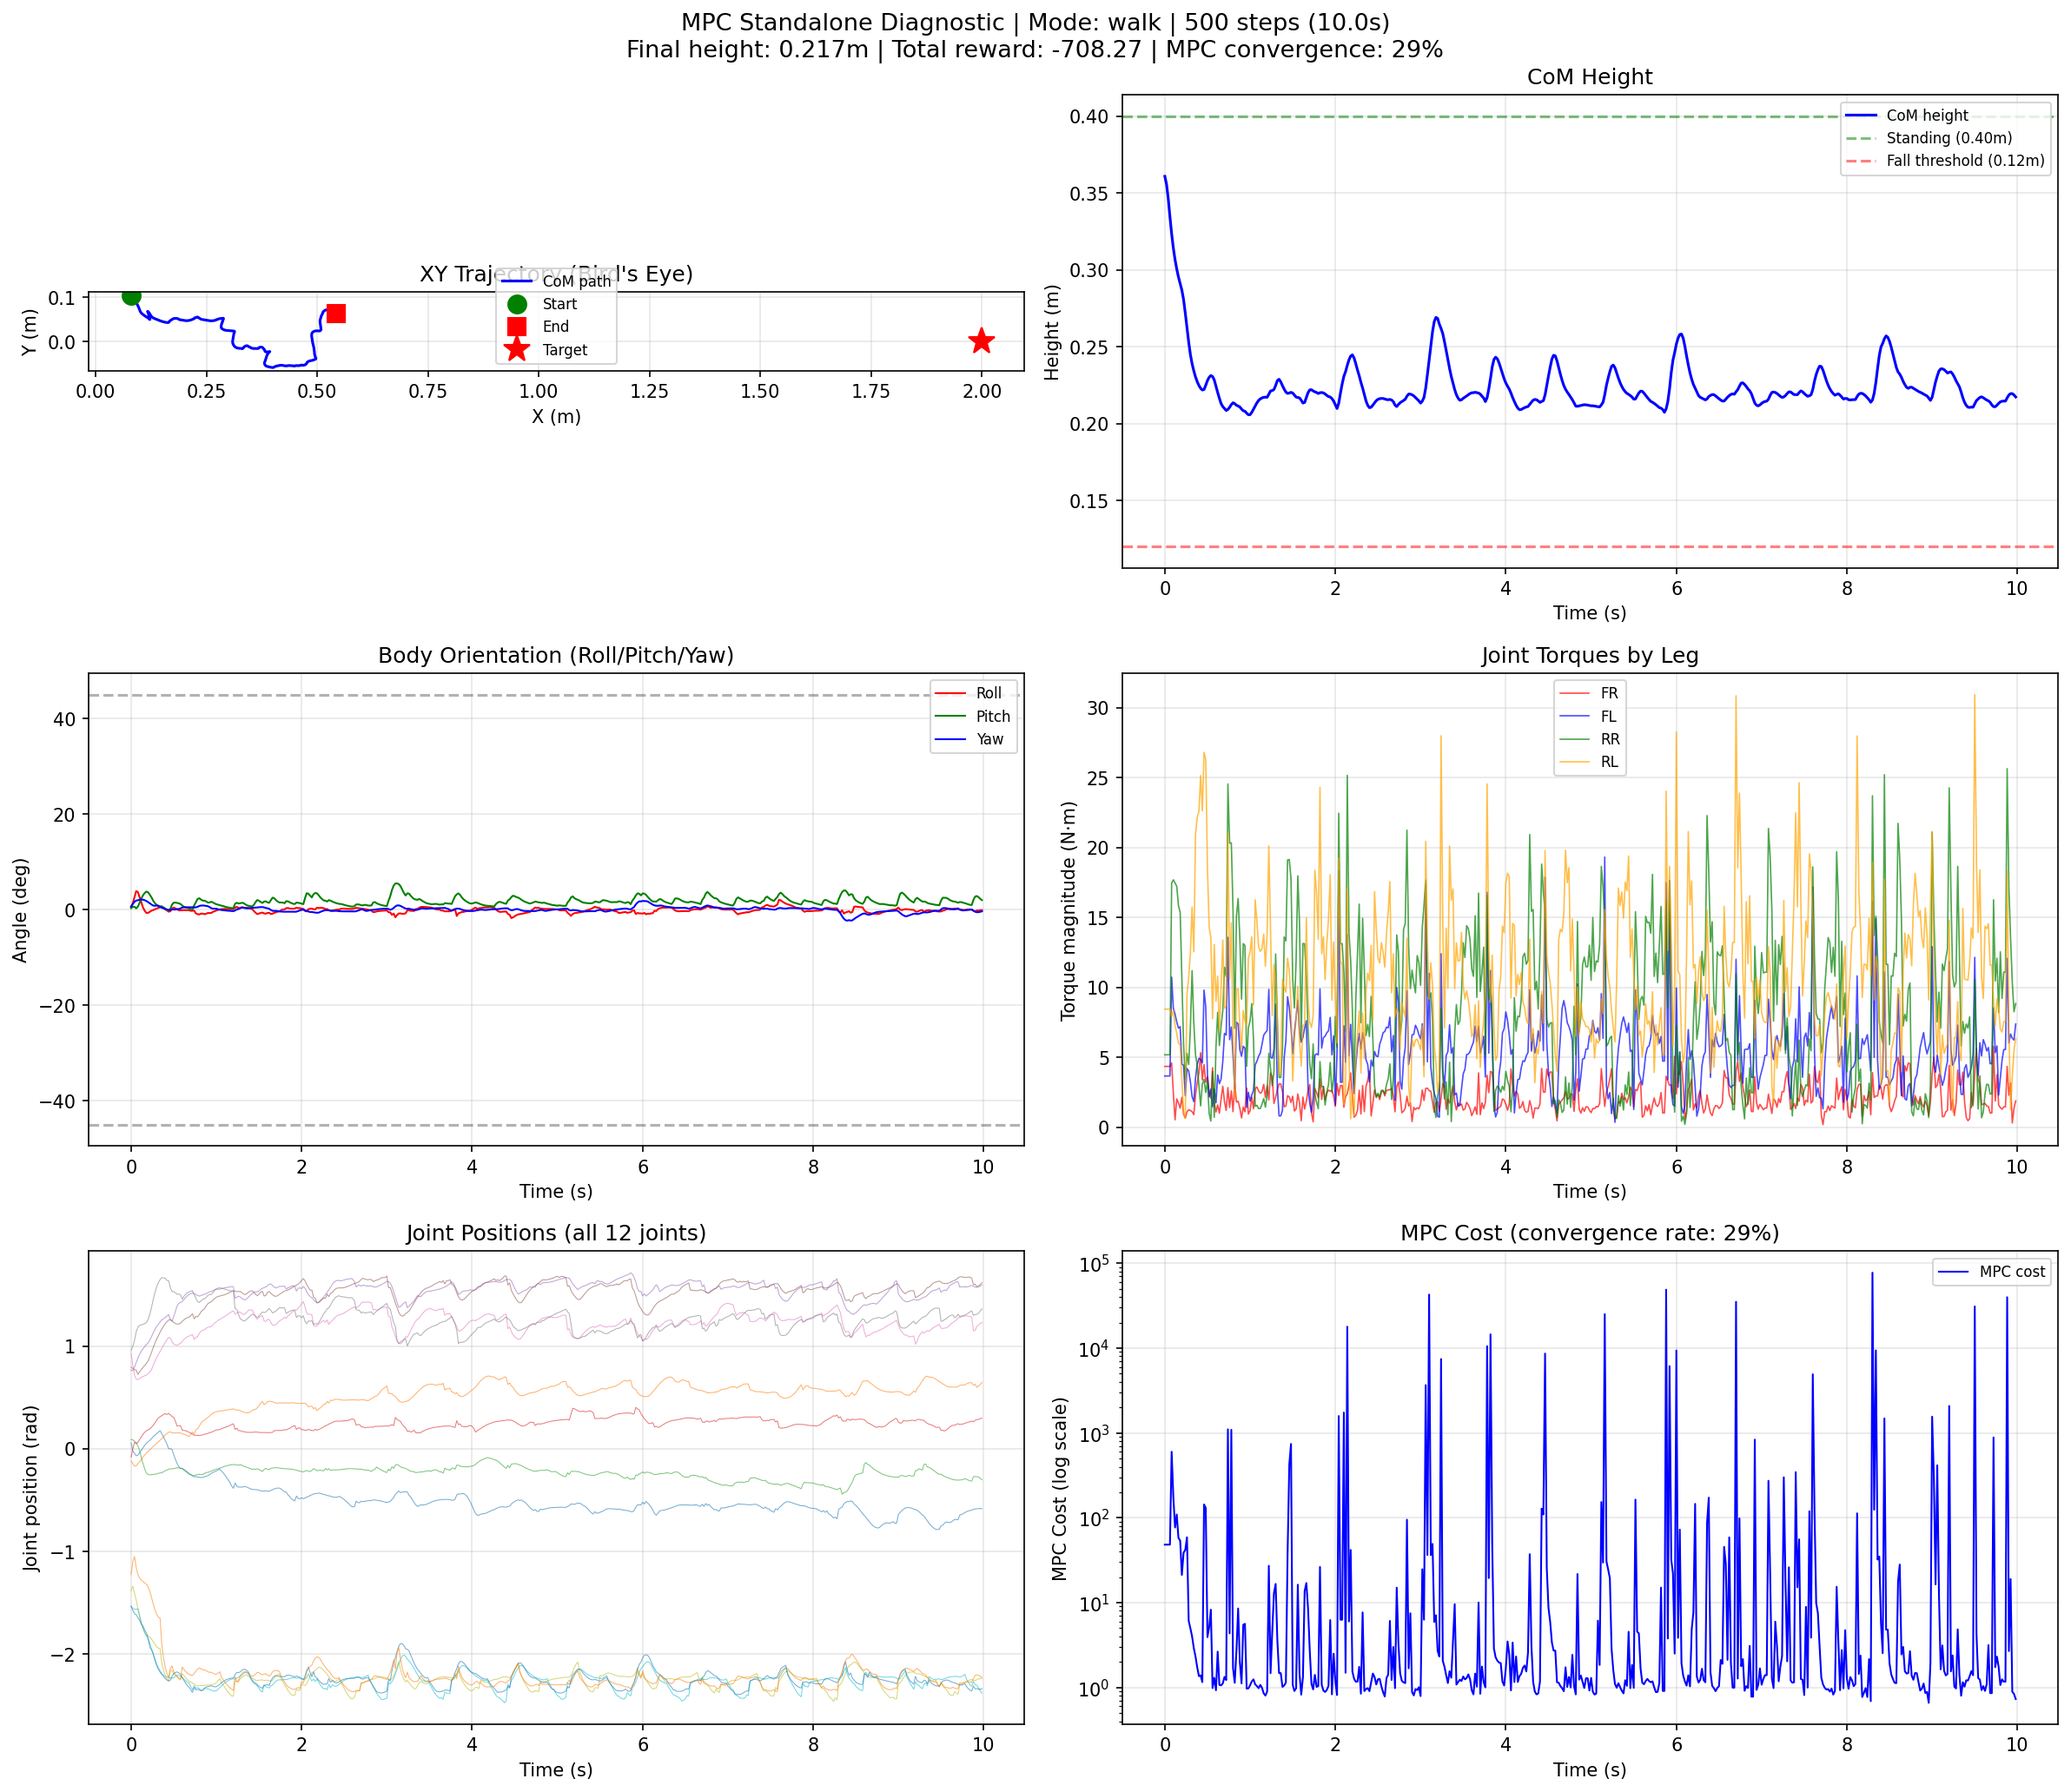
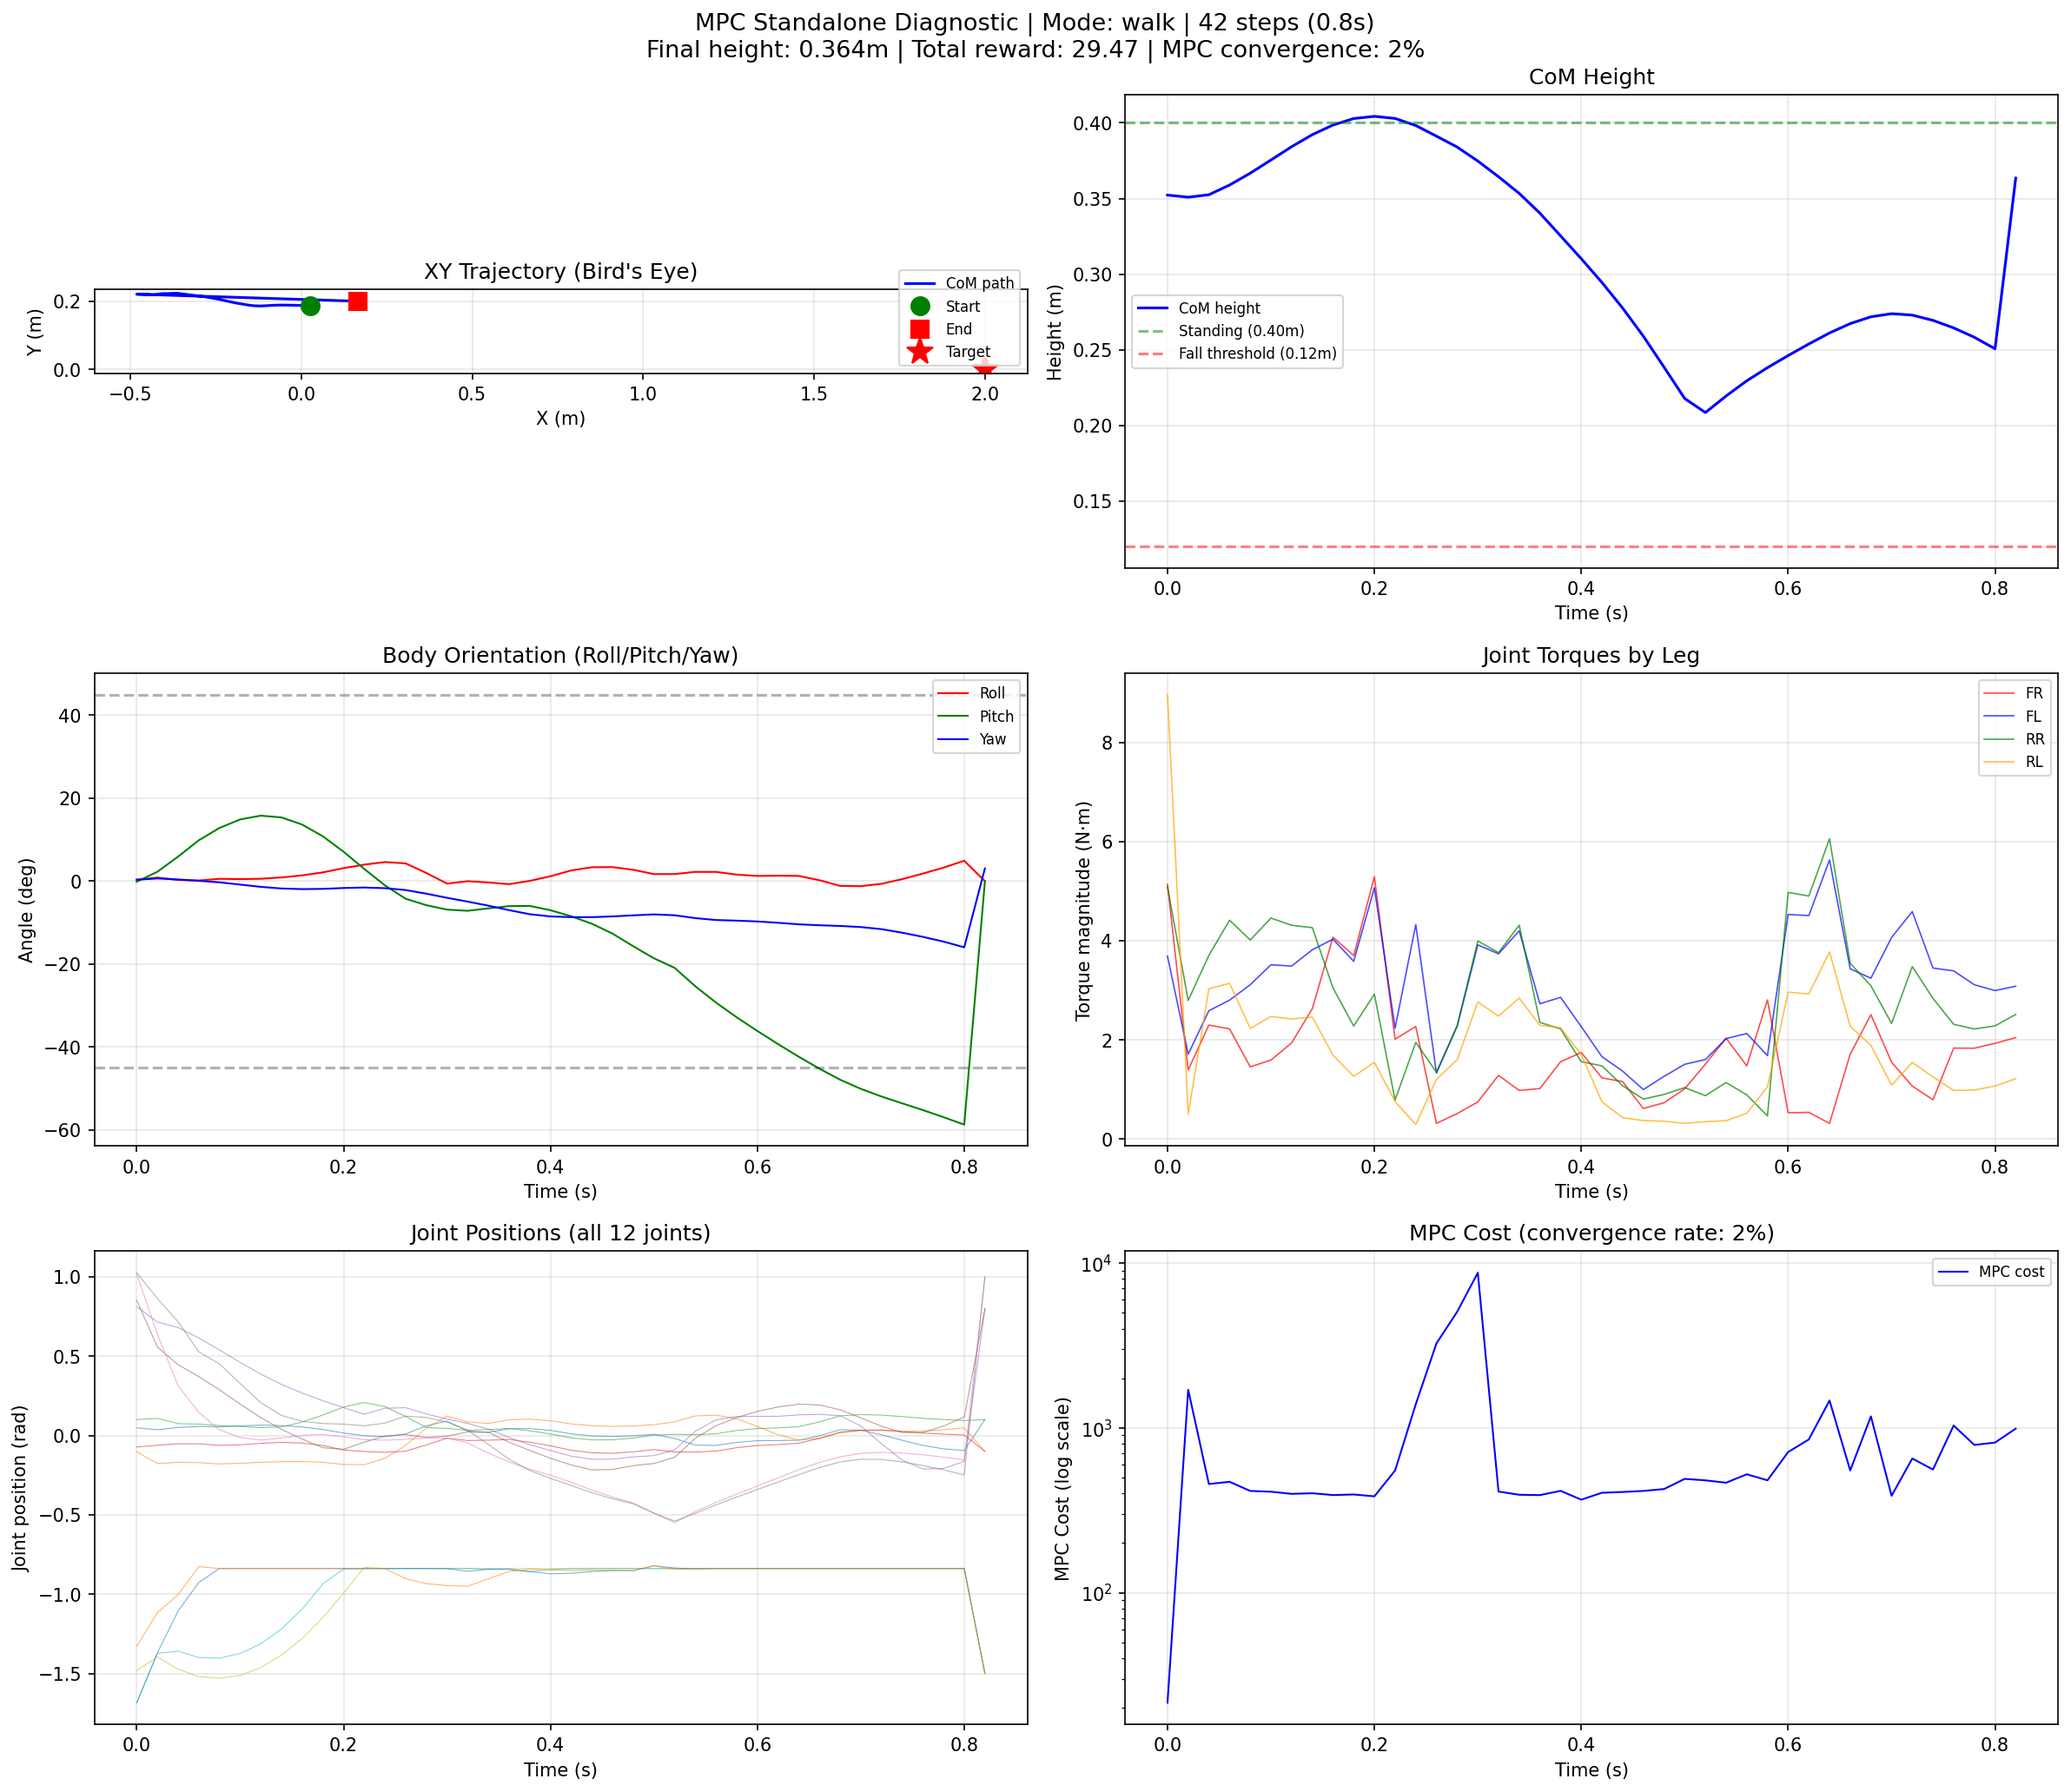
RL debug 314

diff --git a/source/RL_Bezier_MPC/RL_Bezier_MPC/envs/quadruped_mpc_env.py b/source/RL_Bezier_MPC/RL_Bezier_MPC/envs/quadruped_mpc_env.py
@@ -387,6 +387,22 @@ class QuadrupedMPCEnv(DirectRLEnv):
 
         # Parse action components
         bezier_params = actions_np[:, :self.cfg.num_bezier_actions]
+        # ----------------------------------------------------------------
+        # DEFAULT FORWARD WALKING BIAS (critical for RL learning)
+        # Without this: zero RL action → Bezier stays at current pos → MPC
+        # rewards "stand still" perfectly → RL converges to standing local optimum.
+        # With this: zero RL action → 0.2 m/s forward walk baseline.
+        # RL action then modulates around this forward-walking reference.
+        # ----------------------------------------------------------------
+        _hz = float(self.cfg.bezier_horizon)
+        _v_fwd = 0.2  # m/s base forward velocity
+        _fwd_bias = np.array([
+            0.0, 0.0, 0.0,
+            _v_fwd * _hz / 3, 0.0, 0.0,
+            _v_fwd * _hz * 2 / 3, 0.0, 0.0,
+            _v_fwd * _hz, 0.0, 0.0,
+        ], dtype=np.float32)
+        bezier_params = bezier_params + _fwd_bias[np.newaxis, :]
         if self.cfg.fix_gait_params:
             # Stage 1: gait params fixed to defaults (1.0 = no modulation)
             gait_mods = np.ones((self.num_envs, self.cfg.num_gait_mod_actions))

diff --git a/scripts/train_quadruped_mpc.py b/scripts/train_quadruped_mpc.py
@@ -125,7 +125,7 @@ def create_ppo_config(env_cfg: QuadrupedMPCEnvCfg):
             "class_name": "ActorCritic",
             # Start with low noise so the robot doesn't flail randomly;
             # the MPC-only baseline already walks, so mild exploration is enough.
-            "init_noise_std": 0.5,
+            "init_noise_std": 0.15,
             "actor_hidden_dims": [256, 256, 128],
             "critic_hidden_dims": [256, 256, 128],
             "activation": "elu",
